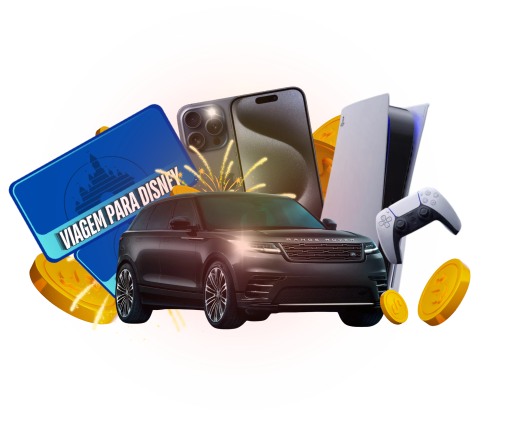
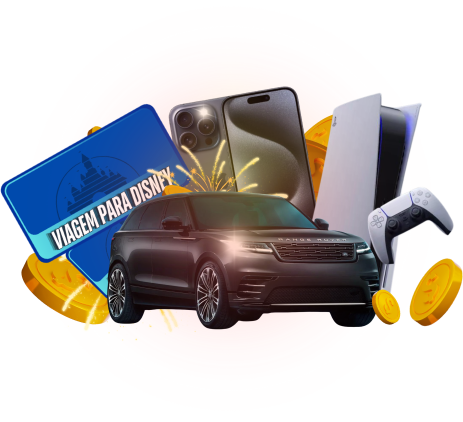
feat: Finaliza responsividade da features

Changed region(s): [[0.0, 0.1848, 1.0, 0.8009], [0.121, 0.3389, 0.1814, 0.3697]]

diff --git a/src/panatta/sections/FeaturesPanatta.jsx b/src/panatta/sections/FeaturesPanatta.jsx
@@ -101,7 +101,7 @@ export default function FeaturesPanatta() {
             }
             img={features3}
             alt="Foto Oferta exclusivas"
-            position="top-[80px] desktop1:top-[98px] desktop1:left-[-2px]"
+            position="top-[80px] phone2:top-[70px] tablet1:top-[125px] tablet2:top-[80px] desktop1:top-[100px] desktop2:top-[105px] desktop1:left-[-2px]"
             description="Aproveite ofertas únicas e aumente suas chances de ganhar"
           />
           <CardFeatures
@@ -115,7 +115,7 @@ export default function FeaturesPanatta() {
             }
             img={features4}
             alt="Foto Sorteios Mensais"
-            position="top-[60px] right-[5px] desktop1:top-[20px] desktop1:right-[70px]"
+            position="top-[45px] phone2:top-[30px] right-[5px] tablet1:top-[45px] tablet1:right-[30px] tablet2:right-[2px] desktop1:top-[60px] desktop1:right-[10px] desktop2:top-[30px] desktop2:right-[90px]"
             description="Participe dos sorteios mensais e concorra a prêmios incríveis"
           />
         </div>
